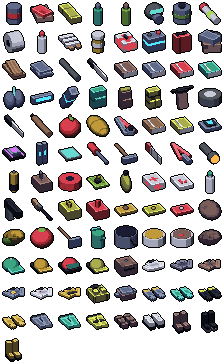
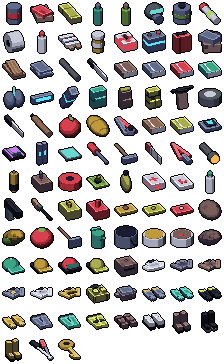
Fechaduras com chave e gazua, mira no mouse, barra rápida no inventário
- Prédios, móveis e caixas trancados fora das vilas vivas; a chave fica escondida num
  móvel do mesmo prédio ou de um vizinho; gazua (nova) ou ferramenta improvisada forçam.
- O personagem olha para o mouse; golpe e tiro vão na direção do mouse.
- Vestir e construir são imediatos; ação com tempo fecha o menu ou a janela.
- Com o menu aberto, a barra rápida fica dentro da aba Inventário.

Claude-Session: https://claude.ai/code/session_012zWQ3HgupzswLAbX8CqoVw

Changed region(s): [[0.25, 0.9066, 0.375, 0.9973], [0.125, 0.9368, 0.25, 0.9973]]

diff --git a/tools/art_models.py b/tools/art_models.py
@@ -624,6 +624,17 @@ def item_model(item):
         "bandagem": [Part("cyl", (0.34, 0.22), "bone", (0, 0, 0.34), rot_x(90)),
                      Part("cyl", (0.12, 0.225), "dark", (0, 0, 0.34), rot_x(90))],
         "antisseptico": bottle("bone", "red"),
+        "gazua": [Part("box", (0.40, 0.025, 0.012), "steel", (0.02, -0.05, 0.02), rot_z(12)),
+                  Part("box", (0.06, 0.025, 0.012), "steel", (0.40, 0.02, 0.02), rot_z(60)),
+                  Part("box", (0.40, 0.025, 0.012), "bone", (0.0, 0.08, 0.05), rot_z(-8)),
+                  Part("box", (0.03, 0.06, 0.012), "bone", (0.38, 0.03, 0.05)),
+                  Part("box", (0.14, 0.05, 0.03), "red", (-0.34, -0.10, 0.03), rot_z(12)),
+                  Part("box", (0.14, 0.05, 0.03), "dark", (-0.36, 0.11, 0.06), rot_z(-8))],
+        "chave": [Part("cyl", (0.16, 0.03), "mustard", (-0.24, 0, 0.03)),
+                  Part("cyl", (0.07, 0.035), "dark", (-0.24, 0, 0.035)),
+                  Part("box", (0.26, 0.04, 0.025), "mustard", (0.12, 0, 0.025)),
+                  Part("box", (0.04, 0.05, 0.025), "mustard", (0.24, 0.07, 0.025)),
+                  Part("box", (0.03, 0.04, 0.025), "mustard", (0.32, 0.06, 0.025))],
         "tala": [Part("box", (0.46, 0.07, 0.035), "wood", (0, 0.13, 0.035)),
                  Part("box", (0.46, 0.07, 0.035), "wood", (0, -0.13, 0.035)),
                  Part("box", (0.07, 0.24, 0.06), "bone", (0.22, 0, 0.06)),

diff --git a/tools/gen_art.py b/tools/gen_art.py
@@ -168,7 +168,8 @@ ITEMS = ["feijao", "carne_seca", "barra_cereal", "agua_limpa", "agua_suja", "mas
          "bone", "capacete_obra", "capacete_moto", "capacete_militar", "capacete_sucata", "camiseta", "moletom",
          "jaqueta_couro", "macacao_mecanico", "jaleco", "traje_hazmat", "colete_tatico", "armadura_sucata",
          "luvas_mecanico", "luvas_cirurgicas", "luvas_taticas", "luvas_borracha", "calca_jeans", "calca_hospitalar",
-         "calca_tatica", "caneleiras_sucata", "tenis", "botas_trabalho", "botas_militares", "botas_borracha"]
+         "calca_tatica", "caneleiras_sucata", "tenis", "botas_trabalho", "botas_militares", "botas_borracha",
+         "gazua", "chave"]
 
 
 def fit_icon(parts, theta):

diff --git a/docs/GDD.md b/docs/GDD.md
@@ -179,6 +179,16 @@ Antes de iniciarmos a lógica, preciso que você me oriente a:
   - *Torre:* munição 9 mm (até 25 balas, 1 por tiro).
   Sem insumo, a máquina não liga nem gasta energia. [E] põe o insumo que estiver no inventário. As torres das vilas não precisam.
 
+### Fechaduras, mira no mouse e ritmo das ações (fase 14)
+
+- **Fechaduras:** fora das vilas vivas, alguns prédios (25% dos vivos, 35% dos abandonados, 18% dos tomados por esporos; nunca o prédio onde a equipe acorda) e alguns móveis (armário 35%, arquivo 45%, balcão 30%, estante 12%) e caixas técnicas (20%) estão trancados. Móvel trancado guarda mais itens. Fechaduras de loja, mercado, bar, clínica, oficina e arquivos são reforçadas.
+  - *Chave:* a do móvel fica em outro móvel do mesmo prédio; a do prédio, num móvel de um prédio vizinho (até 16 tiles). Cada chave tem rótulo ("Chave (armário)", "Chave (casa em Vila Fantasma)") e abre todas as portas daquele prédio. Com a chave, destrancar leva 1 s.
+  - *Forçar:* com gazua (60% simples / 35% reforçada), chave de fenda (22% / 8%) ou faca (15% / 5%), mais 4% por nível de Mecânica; leva 4 s com gazua e 6 s improvisando (Mecânica encurta). Falhar faz barulho e gasta 25% da gazua (ela quebra no zero). A gazua aparece em caixas técnicas e armários e se fabrica na bancada (1 metal + 1 sucata, alicate, Metalurgia 1 e Mecânica 1).
+  - O que abriu fica aberto (vai para o save e para quem entra na partida).
+- **Mira no mouse:** o personagem sempre olha para o mouse, ande para onde andar. Golpe corpo a corpo e tiro vão na direção exata do mouse. Dirigindo, ele olha para onde o veículo vai.
+- **Ritmo das ações:** vestir e tirar roupa, máscara, mochila e coldre é imediato; construir também. Toda ação com tempo (comer, tratar, fabricar, consertar, forçar fechadura...) fecha o inventário ou a janela aberta, e a barra de progresso aparece no jogo.
+- **Barra rápida no inventário:** com o menu aberto, a barra rápida sai da lateral e aparece no topo da aba Inventário, para arrastar itens para ela.
+
 ### Mundo em chunks e vilas vivas (fase 7)
 
 - **Mapa: cidades pequenas e aldeias (29/10):**
@@ -245,4 +255,5 @@ Antes de iniciarmos a lógica, preciso que você me oriente a:
 | 11 | Cidades pequenas e aldeias (vivas, abandonadas, tomadas por esporos), prédios exploráveis com corte estilo The Sims | **feito** |
 | 12 | Ferimentos com chance de sangrar (uma ferida por vez), torções e fraturas com tala, quedas, roupas e armaduras com conjuntos, barra rápida de escolher e clicar | **feito** |
 | 13 | Móveis com itens (geladeira, armário, pia...), estações com janela de fabricação (bancada, fogareiro, fornalha, mesa de reparos) e máquinas que gastam insumo (filtro, munição, lenha) | **feito** |
+| 14 | Fechaduras (chave escondida, gazua ou forçar), personagem mirando no mouse, vestir e construir imediatos, ação com tempo fecha o menu, barra rápida no inventário | **feito** |
 | 9 | Construção em bordas (estilo The Sims) com 3 abas, utilidades e decoração, rede de energia (eólico, combustão, baterias), mesa de reparos, dia/noite, clima e iluminação | **feito** |

diff --git a/README.md b/README.md
@@ -29,6 +29,7 @@ Para testar o co-op numa máquina só: `godot --path . -- --autostart=host --nam
 - **Mar de Esporos**: concentração sobe perto da borda do mapa; na zona letal o filtro é destruído e hordas de elite surgem sem parar.
 - **Inventário por peso e volume**: bolsos, mochilas e coldre com capacidade em litros, sobrecarga que deixa lento, itens com durabilidade (armas e máscara), validade (perecíveis estragam) e carga (bateria, combustível, antisséptico, fita). Janela de saque com o recipiente e o inventário lado a lado; baú para guardar.
 - **Armas de fogo, som e furtividade**: pistola e espingarda com munição, mira no mouse e dispersão; passos, tiros e construções fazem barulho que os infectados investigam; [C] agacha. Ferramentas (martelo, chave de fenda, alicate, serra) e materiais (pregos, fios, sucata eletrônica) para construir.
+- **Fechaduras e mira**: prédios e móveis trancados (ache a chave ou force com gazua); o personagem olha, bate e atira na direção do mouse.
 - **Móveis, estações e máquinas**: os itens das casas ficam em geladeiras, armários, pias e estantes; bancada, fogareiro, fornalha e mesa de reparos abrem a própria janela; purificador, selagem e torre só funcionam com insumo (filtro, munição) além de energia.
 - **Ferimentos e roupas**: nem todo golpe sangra, e uma ferida aberta só piora com novos cortes; roupas e armaduras (5 espaços) reduzem o dano e o sangramento, gastam com o uso e formam conjuntos com bônus (mecânico, médico, tático, anti-esporos).
 - **Ações com tempo e medicina cooperativa**: curativos, cirurgias, recarga e consumo levam tempo e são interrompidos por movimento ou dano; na aba Corpo dá para tratar e operar um aliado próximo.
